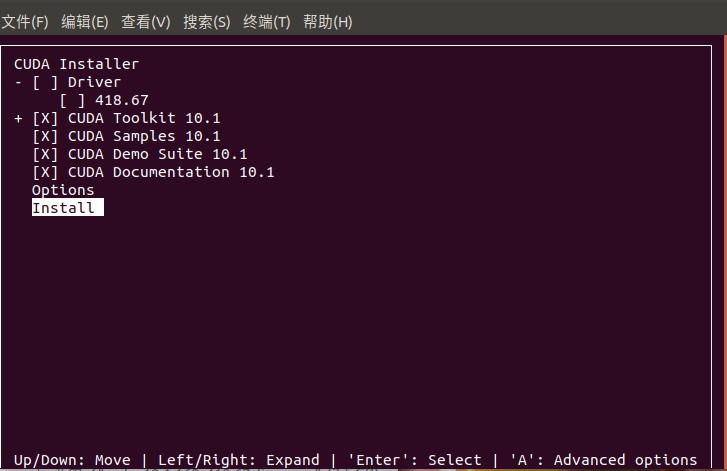
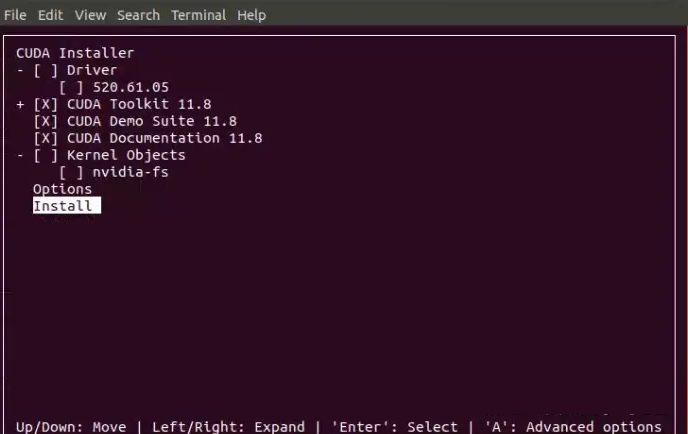
complete the installation of Nvidia GPU in Ubuntu on 20231103.
OMG!

Changed region(s): [[0.0, 0.0, 1.0, 1.0]]

diff --git a/SpecialRequirements/CreateUbuntuwithNvidiaGPUandTensorFLow.md b/SpecialRequirements/CreateUbuntuwithNvidiaGPUandTensorFLow.md
@@ -5,7 +5,7 @@
 | Object     | version   | describer                                   |
 | ---------- | --------- | ------------------------------------------- |
 | Ubuntu     | 20.04 LTS | 限制python, C编译器版本                      |
-|Nvidia Drivers||受限于GPU型号。|
+|Nvidia Drivers|470|受限于GPU型号。|
 | tensorflow | 2.12.0    | 限制numpy。                                  |
 | python     | 3.8-3.11  | 受限于ubuntu版本，20.04自带版本为3.8。限制DGL, tensorflow版本。   |
 | GCC        | 9.4.0     | Ubuntu 20.04 LTS 自带GCC版本                 |
@@ -28,7 +28,7 @@
 
 ## Step
 
-主要思路是：现状底层，再装应用。
+主要思路是：先装底层，再装应用。
 
 安装nvidia驱动->安装CUDA->安装cuDNN->安装tensorflow
 
@@ -77,35 +77,35 @@
 |8.4|安装| sudo sh cuda_11.8.0_520.61.05_linux.run|[CUDA安装过程](#cuda安装过程)。|
 |8.5|查看CUDA安装情况| nvidia-smi |安装之前显示的CUDA版本是11.4，安装之后CUDA的版本为11.8。在没有安装成功cuda_11.8.0_520.61.05_linux.run的现象是/usr/local目录下是没有包含cuda名字的文件夹的。|
 |9|配置CUDA环境变量|/|/|
-|9.1|打开.bashrc文件|gedit ~/.bashrc |打开.bashrc文件|
+|9.1|打开.bashrc文件|gedit ~/.bashrc |打开~/.bashrc文件。注意：当前环境中处于/home/[Account]目录下的.bashrc文件和~/.bashrc文件的内容并不一样。修改的是~/.bashrc文件。|
 |9.2|最后添加环境变量| export PATH=$PATH:/usr/local/cuda-11.8/bin |/|
 |9.3|最后添加环境变量| export LD_LIBRARY_PATH=$LD_LIBRARY_PATH:/usr/local/cuda-11.8/lib64 |/|
-|9.4|最后添加环境变量| export LIBRARY_PATH=$LIBRARY_PATH:/usr/local/cuda-11.8/lib64 |/|
-|9.5|使用使得环境变量生效| source ~/.bashrc |/|
-|9.6|验证是否生效。| nvcc -V |[CUDA安装生效](#cuda安装生效)|
-|10|安装cuDNN|/|/|
-|10.|需要在nvidia注册。|/|/|
-|10.|登录之后在<https://developer.nvidia.com/rdp/cudnn-archive>下载。|/|/|
-|10.|需要科学上网下载打开页面。然后不用科学上网的情况下载地址为：<https://developer.download.nvidia.cn/compute/cudnn/secure/8.6.0/local_installers/11.8/cudnn-linux-x86_64-8.6.0.163_cuda11-archive.tar.xz>。|/|下载地址有租期。过期之后无法继续下载。在科学上网的情况下很容易中途下载失败。通过科学上网先点开下载链接，然后切换到非科学上网状态，快速下载。基本上要求10分钟之内下载完成。|
-|10.|解压。|xz -d cudnn-linux-x86_64-8.6.0.163_cuda11-archive.tar.xz |/|
-|10.|解压。|tar -xvf cudnn-linux-x86_64-8.6.0.163_cuda11-archive.tar.xz |/|
-|10.|使用下列命令将解压出来的目录覆盖到上一步中配置的环境变量目录下| sudo cp -i /home/[Account]/Downloads/cudnn-linux-x86-v8.6.0.163/cuda/include/* /usr/local/cuda-11.8/include/ |/|
-|10.|使用下列命令将解压出来的目录覆盖到上一步中配置的环境变量目录下| sudo cp -i /home/[Account]/Downloads/cudnn-linux-x86-v8.6.0.163/cuda/lib/* /usr/local/cuda-11.8/lib64/ |/|
-|10.|对文件进行赋权| sudo chmod a+r /usr/local/cuda-11.8/include/cudnn.h |/|
-|10.|对文件进行赋权| sudo chmod a+r /usr/local/cuda-11.8/lib64/libcudnn* |/|
-|10.|查看cudnn的版本| cat /usr/local/cuda-11.8/include/cudnn_version.h | grep CUDNN_MAJOR -A 2 |/|
+|9.4|最后添加环境变量| export LIBRARY_PATH=$LIBRARY_PATH:/usr/local/cuda-11.8/lib64 |此项可以不添加。|
+|9.5|最后添加环境变量| export CUDA_HOME=$CUDA_HOME:/usr/local/cuda-11.8 |/|
+|9.6|使用使得环境变量生效| source ~/.bashrc |/|
+|9.7|验证是否生效。| nvcc -V |[CUDA安装生效](#cuda安装生效)|
+|10|安装cuDNN|/|[安装cudnn的方法](#正确安装cudnn的方法)|
+|10.1|需要在nvidia注册。|/|/|
+|10.2|登录之后在<https://developer.nvidia.com/rdp/cudnn-archive>下载。|/|/|
+|10.3|需要科学上网下载打开页面。然后不用科学上网的情况下载地址为：<https://developer.download.nvidia.cn/compute/cudnn/secure/8.6.0/local_installers/11.8/cudnn-local-repo-ubuntu2004-8.6.0.163_1.0-1_amd64.deb>。|/|下载地址有租期。过期之后无法继续下载。在科学上网的情况下很容易中途下载失败。通过科学上网先点开下载链接，然后切换到非科学上网状态，快速下载。基本上要求10分钟之内下载完成。|
+|10.4|安装deb文件|sudo dpkg -i cudnn-local-repo-ubuntu2004-8.6.0.163_1.0-1_amd64.deb|在下载cudnn-local-repo-ubuntu2004-8.6.0.163_1.0-1_amd64.de文件的目录下运行。|
+|10.5|导入CUDA GPG钥匙。安装完成cudnn-local-repo-ubuntu2004-8.6.0.163_1.0-1_amd64.deb之后的回显信息中会有完整的提示语句。| sudo cp /var/cudnn-local-repo-*/cudnn-local-*-keyring.gpg /usr/share/keyrings/ |/|
+|10.6|更新apt。|sudo apt-get update|/|
+|10.7|安装runtime库。| sudo apt-get install libcudnn8=8.6.0.163-1+cuda11.8 |没有安装runtime库, 开发库时，直接运行[](#测试代码)会使得tensorflow报包含"tensorflow coud not find cuda drivers on your machine."内容的错误。|
+|10.8|安装开发库。| sudo apt-get install libcudnn8-dev=8.6.0.163-1+cuda11.8 |/|
+|10.9|安装示例代码。| sudo apt-get install libcudnn8-samples=8.6.0.163-1+cuda11.8 |/|
+|10.10|复制cuDNN示例到一个具有写权限的路径下。| cp -r /usr/src/cudnn_samples_v8/ $HOME |/|
+|10.11|抵达具有写权限的路径下。| cd  $HOME/cudnn_samples_v8/mnistCUDNN |/|
+|10.12|解决引入FreeImage.h的问题。| sudo apt-get install libfreeimage3 libfreeimage-dev |mnistCUDNN示例中引入了FreeImage.h。如果没有安装libfreeimage和libfreeimage-dev会报错“fatel error: FreeImage.h: 没有那个文件或目录”|
+|10.13|编译mnistCUDNN示例。| make clean && make |/|
+|10.14|运行mnistCUDNN示例。| ./mnistCUDNN |如果出现"Test passed！"的信息表示CUDA, cuDNN安装成功。|
+|10.15|查看cudnn的版本| cat /usr/local/cuda-11.8/include/cudnn_version.h | grep CUDNN_MAJOR -A 2 |/|
 |11|安装python库|/|/|
-|11.|修改pip软件源| pip config set global.index-url https://pypi.tuna.tsinghua.edu.cn/simple |修改为清华源。|
-|11.|安装包|tensorflow, pandas, numpy, matplotlib, scikit-learn, networkx, dgl, gensim, xgboost, gym, imageio, pillow, geopy|[python包版本](#environment-parameter)|
+|11.1|修改pip软件源| pip config set global.index-url https://pypi.tuna.tsinghua.edu.cn/simple |修改为清华源。|
+|11.2|安装包|tensorflow, pandas, numpy, matplotlib, scikit-learn, networkx, dgl, gensim, xgboost, gym, imageio, pillow, geopy|[python包版本](#environment-parameter)|
 |12|安装vscode|/|/|
 |12.1|安装所需插件|Jupyter, python, pylance, Chinese, Better Comments, autoDocstring, Excel Viewer, GitHub Theme, Markdow All in One, Markdown PDF, Rainbow CSV, vscode-pdf|/|
-|13|测试代码|/|/|
-||| gpus = tf.config.list_physical_devices(device_type='GPU') ||
-||| cpus = tf.config.list_physical_devices(device_type='CPU') ||
-||| print(gpus, cpus)||
-|||||
-|||||
-
+|13|测试代码|/|[测试代码](#测试代码)|
 
 ## Appends
 
@@ -202,6 +202,7 @@ driver   : xserver-xorg-video-nouveau - distro free builtin
 | 12     | iptables-persistent | 暂时用不到。iptables是一个linux下的防火墙工具，它能帮助我们基于规则进行网络流量控制。                                | [https://zhuanlan.zhihu.com/p/574057147](https://zhuanlan.zhihu.com/p/574057147)                                                   |
 | 13    | psmisc              | 暂时用不到。                                                                                                         | <>                                                                                                                              |
 | 14    | docker-compose      | 暂时用不到。                                                                                                         | <>|
+| 15推荐    | flameshot | 截图工具 | <>|
 
 
 ### CUDA安装过程
@@ -234,29 +235,51 @@ Command 'nvcc' not found, but can be installed with:
 sudo apt install nvidia-cuda-toolkit
 ```
 
-## References
+### 正确安装cudnn的方法
 
-### 关于cuDNN的说明和安装
+中文参考：<https://zhuanlan.zhihu.com/p/633849099>。
+官方参考：cuDNN的安装官方文档进行安装：[NVIDIA cuDNN Documentation的1.3.2部分的内容为ubuntu上使用deb的正确安装方法](https://docs.nvidia.com/deeplearning/cudnn/install-guide/index.html#installlinux-deb)。
+安装libfreeimage3和libfreeimage-dev的原因参考:<https://zhuanlan.zhihu.com/p/376892078>。
 
-来源：<https://zhuanlan.zhihu.com/p/630067986>
+1. 安装
 
-cuDNN（CUDA Deep Neural Network Library）是一个针对深度学习应用优化的加速库，它使用CUDA技术加速深度神经网络的训练和推断。这个库提供了一些高效的原语，例如卷积、池化、归一化等，可以帮助开发人员快速实现深度神经网络，并且提升训练和推断的速度。
+```shell
+sudo dpkg -i cudnn-local-repo-ubuntu2004-8.6.0.163_1.0-1_amd64.deb
+sudo cp /var/cudnn-local-repo-*/cudnn-local-*-keyring.gpg /usr/share/keyrings/
+sudo apt-get update
+sudo apt-get install libcudnn8=8.6.0.163-1+cuda11.8
+sudo apt-get install libcudnn8-dev=8.6.0.163-1+cuda11.8
+sudo apt-get install libcudnn8-samples=8.6.0.163-1+cuda11.8
+```
 
-CUDA和cuDNN是两个相互依赖的软件包，它们之间有以下关系：
+如果只安装cudnn-local-repo-ubuntu2004-8.6.0.163_1.0-1_amd64.deb而不安装libcudnn8=8.6.0.163-1+cuda11.8和libcudnn8-dev=8.6.0.163-1+cuda11.8，tensorflow就会出现下列类似错误。
+```shell
+2023-03-02 12:05:09.463343: I tensorflow/tsl/cuda/cudart_stub.cc:28] Could not find cuda drivers on your machine, GPU will not be used.
+2023-03-02 12:05:09.489911: I tensorflow/tsl/cuda/cudart_stub.cc:28] Could not find cuda drivers on your machine, GPU will not be used.
+2023-03-02 12:05:09.490522: I tensorflow/core/platform/cpu_feature_guard.cc:182] This TensorFlow binary is optimized to use available CPU instructions in performance-critical operations.
+To enable the following instructions: AVX2 FMA, in other operations, rebuild TensorFlow with the appropriate compiler flags.
+2023-03-02 12:05:10.066759: W tensorflow/compiler/tf2tensorrt/utils/py_utils.cc:38] TF-TRT Warning: Could not find TensorRT
 
-- CUDA是必需的：cuDNN需要依赖于CUDA才能够工作。因为cuDNN是使用CUDA技术实现的，所以只有支持CUDA的硬件和系统才能够运行它。在安装cuDNN之前，必须先安装CUDA，并且在环境变量中设置CUDA的路径。
-- cuDNN是可选的：尽管cuDNN可以提升深度学习应用的性能和效率，但它并不是必需的。如果不使用cuDNN，仍然可以使用CUDA进行深度学习计算。cuDNN只是一个可选的加速库，可以根据需要选择是否使用它。
-- cuDNN提供了深度学习相关的API和方法：为了使开发人员更容易地使用cuDNN，这个库提供了一些专门针对深度学习的API和方法，例如卷积、池化、归一化等。这些方法已经被高度优化，可以在支持CUDA的硬件上快速执行。
+Tensorflow version = 2.12.0-dev20230203
 
-总的来说，CUDA提供了基础的GPU并行计算能力，而cuDNN则是在这个基础上为深度学习应用提供的高级的计算加速库。两者结合起来可以大幅提升深度学习应用的性能和效率。
+2023-03-02 12:05:10.748675: I tensorflow/compiler/xla/stream_executor/cuda/cuda_gpu_executor.cc:996] successful NUMA node read from SysFS had negative value (-1), but there must be at least one NUMA node, so returning NUMA node zero. See more at https://github.com/torvalds/linux/blob/v6.0/Documentation/ABI/testing/sysfs-bus-pci#L344-L355
+2023-03-02 12:05:10.771263: W tensorflow/core/common_runtime/gpu/gpu_device.cc:1956] Cannot dlopen some GPU libraries. Please make sure the missing libraries mentioned above are installed properly if you would like to use GPU. Follow the guide at https://www.tensorflow.org/install/gpu for how to download and setup the required libraries for your platform.
+Skipping registering GPU devices...
+```
 
-首先在[https://developer.nvidia.com/cudnn 下载相应版本的cudnn](https://link.zhihu.com/?target=https%3A//developer.nvidia.com/cudnn)。这一步需要注册或者拥有英伟达账号。
+2. 验证
 
-然后，参考 cuDNN 的安装官方文档进行安装：[NVIDIA cuDNN Documentation](https://link.zhihu.com/?target=https%3A//docs.nvidia.com/deeplearning/cudnn/install-guide/index.html%23installlinux-tar)
+官方验证参考：<https://docs.nvidia.com/deeplearning/cudnn/install-guide/index.html#verify>。
 
-> 虽然我是 Ubuntu，但是也按照 "1.3.1. Tar File Installation" 部分的讲解进行操作，而不按照"1.3.2. Debian Local Installation"的部分进行操作。
+```shell
+cp -r /usr/src/cudnn_samples_v8/ $HOME
+cd  $HOME/cudnn_samples_v8/mnistCUDNN
+sudo apt-get install libfreeimage3 libfreeimage-dev
+make clean && make
+./mnistCUDNN
+```
 
-## 测试代码
+### 测试代码
 
 ```python
 import tensorflow as tf
@@ -275,3 +298,28 @@ print(device_lib.list_local_devices())
 import tensorflow as tf
 tf.test.is_gpu_available()
 ```
+
+## References
+
+### 关于cuDNN的说明
+
+来源：<https://zhuanlan.zhihu.com/p/630067986>
+
+cuDNN（CUDA Deep Neural Network Library）是一个针对深度学习应用优化的加速库，它使用CUDA技术加速深度神经网络的训练和推断。这个库提供了一些高效的原语，例如卷积、池化、归一化等，可以帮助开发人员快速实现深度神经网络，并且提升训练和推断的速度。
+
+CUDA和cuDNN是两个相互依赖的软件包，它们之间有以下关系：
+
+- CUDA是必需的：cuDNN需要依赖于CUDA才能够工作。因为cuDNN是使用CUDA技术实现的，所以只有支持CUDA的硬件和系统才能够运行它。在安装cuDNN之前，必须先安装CUDA，并且在环境变量中设置CUDA的路径。
+- cuDNN是可选的：尽管cuDNN可以提升深度学习应用的性能和效率，但它并不是必需的。如果不使用cuDNN，仍然可以使用CUDA进行深度学习计算。cuDNN只是一个可选的加速库，可以根据需要选择是否使用它。
+- cuDNN提供了深度学习相关的API和方法：为了使开发人员更容易地使用cuDNN，这个库提供了一些专门针对深度学习的API和方法，例如卷积、池化、归一化等。这些方法已经被高度优化，可以在支持CUDA的硬件上快速执行。
+
+总的来说，CUDA提供了基础的GPU并行计算能力，而cuDNN则是在这个基础上为深度学习应用提供的高级的计算加速库。两者结合起来可以大幅提升深度学习应用的性能和效率。
+
+首先在[https://developer.nvidia.com/cudnn 下载相应版本的cudnn](https://link.zhihu.com/?target=https%3A//developer.nvidia.com/cudnn)。这一步需要注册或者拥有英伟达账号。
+
+然后，参考 cuDNN 的安装官方文档进行安装：[NVIDIA cuDNN Documentation](https://link.zhihu.com/?target=https%3A//docs.nvidia.com/deeplearning/cudnn/install-guide/index.html%23installlinux-tar)
+
+**错误的**：虽然我是 Ubuntu，但是也按照 "1.3.1. Tar File Installation" 部分的讲解进行操作，而不按照"1.3.2. Debian Local Installation"的部分进行操作。
+
+
+
